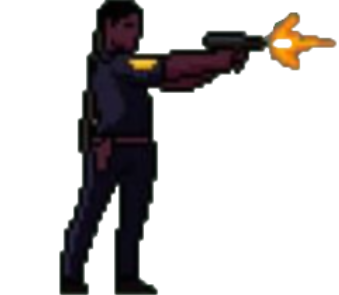
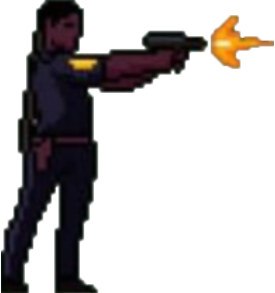
fix policeman animation

diff --git a/src/entities/policeman.py b/src/entities/policeman.py
@@ -1,7 +1,7 @@
 import pygame
 import os
-from constants import GRAVITY, ENEMIES_PATH, ENEMY_ANIMATION_SPEED, POLICEMAN_SHOOT_DELAY
-from src.entities.projectile import Projectile  # Добавляем импорт Projectile
+from constants import GRAVITY, ENEMIES_PATH, POLICEMAN_SHOOT_DELAY
+from src.entities.projectile import Projectile
 
 
 class Policeman(pygame.sprite.Sprite):
@@ -22,7 +22,7 @@ class Policeman(pygame.sprite.Sprite):
                 cls._shoot_texture = pygame.image.load(os.path.join(ENEMIES_PATH, "policeman_shoot.png"))
 
                 # Масштабируем до стандартного размера
-                size = (50, 80)
+                size = (60, 80)
                 cls._idle_texture = pygame.transform.scale(cls._idle_texture, size)
                 cls._shoot_texture = pygame.transform.scale(cls._shoot_texture, size)
 
